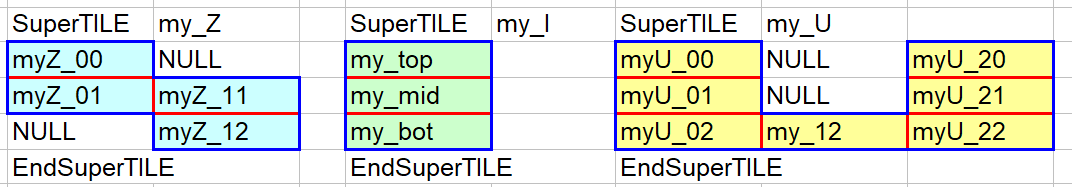
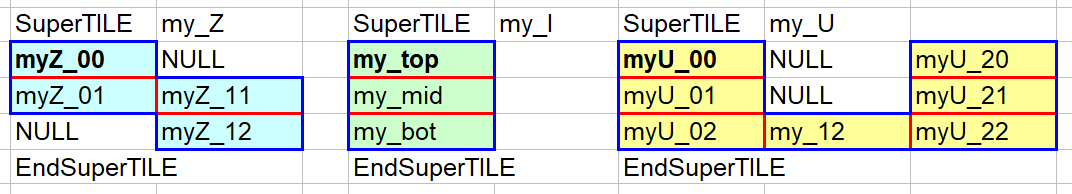
anchor tile description in Supertiles and bitstream remapping subsection

diff --git a/docs/source/fabric_definition.rst b/docs/source/fabric_definition.rst
@@ -542,7 +542,90 @@ FABulous defines the following coding rules for BELs:
 Bitstream remapping
 ~~~~~~~~~~~~~~~~~~~
 
+FABulous will take care about implementing the configuration logic and bitstream encoding and the mapping of this into configuration bitstreams. This can be done automatically.
+However, users can influence the mapping of configuration bits into the bitstream. We use this in TODO for optimizing the bitstream layout. Moreover, for our first chip, we used remapping to create a human readable bitstream which is more convininet to be modified in a hex editor, as dsscribed later in this subsetion).
 
+In the code example for a LUT, it was shown that the configuration bits are exported into the LUT interface:
+
+.. code-block:: VHDL
+   :emphasize-lines: 5
+
+   entity LUT4 is
+    Generic ( NoConfigBits : integer := 18 );	-- has to be adjusted manually 
+    Port (      -- IMPORTANT: this has to be in a dedicated line
+    ...
+    ConfigBits : in 	 STD_LOGIC_VECTOR( NoConfigBits -1 downto 0 )  -- These are the configuration bits
+
+Exporting configuration bits is a requirement for any primitive or switch matrix that uses configuration bits. The tile configuration bitstream is formed by concatenating first the primitive configuration bits (if primitives are available and use configuration bits) and then the switch matrix configuration bits (again, only if the switch matrix uses configuration bits) into one long tile configuration word.
+This is done in the order that the primitives are declared by ``BEL`` entries in the tile definition. Configuration bitstream vectors are defined in *downto* direction and the first BEL primitive configuration bits will be placed at the LSB side of the tile bitstream and the configuration switch matrix at the MSB side.
+
+In the case of using the **shift-register configuration mode**, this would form the tile configuration chain. FABulous is only supporting one long bit-serial configuration chain. While configuration speed could bossibly be boosted by using multiple parralel (and correspondingly shorter) chains, we have not added further optimizations, because shift register configuration is inferior to frame-based configuration mode.
+
+For **frame-based configuration mode**, FABulous will pack those configuration bits into frames. By default, FABulous will start with frame 0 and pack the first ``FrameBitsPerRow`` bits from the tile configuration bitstream starting with the MSBs of the tile bitstream frame-by-frame until all configuration bits are packed. This may leave some of the ``FrameBitsPerRow`` x ``MaxFramesPerCol`` possible  configuration bits unused.
+
+FABulous is recording the bitstream mapping file (in CSV format) that follows the naming convention  <tile_descriptor>_ConfigMem.init.csv (e.g., LUT4AB_ConfigMem.init.csv). The file has ``MaxFramesPerCol`` lines (one per configuration frame, which includes empty frames). A line has the format:
+
+  <frame_name>, <frame_index>, <bits_used>, <used_bits_mask>, <ConfigBits_ranges>
+
+Where the fields mean:
+
+* <frame_name> is a symbolic name for a frame which is not further used internally by FABulous.
+* <frame_index> is indexed 0 to ``MaxFramesPerCol`` -1.
+* <bits_used> denotes the number of bits that are used in this frame and must be in the range 0 to ``FrameBitsPerRow``.
+* <used_bits_mask> denotes which bits in a frame will be used. The bitmask is defined MSBs downto LSBs and a ``1`` denotes a used configuration bit and a ``0`` denotes a gap bit that will not be used. Note that FABulous will not generate configuration latch for thos gap bits). Again, in frame-based reconfiguration, not all possible ``FrameBitsPerRow`` x ``MaxFramesPerCol`` bits will be usually be used and the bitmask specifies the used and unused bits. The number of ``1`` entries per frame is redundant to <bits_used>. FABulous will count the ``1`` entries and use that value while <bits_used> is used for checking only.
+* <ConfigBits_ranges> denotes a comma-separated list of configuration bits (given by their index) from the tile bitstream. The field can be individual bits or ranges of tile bitstream bits in the form <left_index>:<right_index>. The number of specified bits has to match the number of used configuraton bits as specified by the mask and the mapping is performed in the order the configuratoin bits are listed, as illustrated in the following figure:
+
+  .. figure:: figs/bitstream_mask_mapping.*
+    :alt: bitstream_mask_mapping
+    :width: 60% 
+    :align: center
+
+The following exaple is the FABulous-generated mapping file of the CLB implemented for our first FABulous TSMC chip.
+
+.. code-block:: python
+
+   #frame_name, frame_index, bits_used, used_bits_mask,                          ConfigBits_ranges
+   frame0,      0,           32,        1111_1111_1111_1111_1111_1111_1111_1111, 537:506
+   frame1,      1,           32,        1111_1111_1111_1111_1111_1111_1111_1111, 505:474
+   frame2,      2,           32,        1111_1111_1111_1111_1111_1111_1111_1111, 473:442
+   frame3,      3,           32,        1111_1111_1111_1111_1111_1111_1111_1111, 441:410
+   frame4,      4,           32,        1111_1111_1111_1111_1111_1111_1111_1111, 409:378
+   frame5,      5,           32,        1111_1111_1111_1111_1111_1111_1111_1111, 377:346
+   frame6,      6,           32,        1111_1111_1111_1111_1111_1111_1111_1111, 345:314
+   frame7,      7,           32,        1111_1111_1111_1111_1111_1111_1111_1111, 313:282
+   frame8,      8,           32,        1111_1111_1111_1111_1111_1111_1111_1111, 281:250
+   frame9,      9,           32,        1111_1111_1111_1111_1111_1111_1111_1111, 249:218
+   frame10,     10,          32,        1111_1111_1111_1111_1111_1111_1111_1111, 217:186
+   frame11,     11,          32,        1111_1111_1111_1111_1111_1111_1111_1111, 185:154
+   frame12,     12,          32,        1111_1111_1111_1111_1111_1111_1111_1111, 153:122
+   frame13,     13,          32,        1111_1111_1111_1111_1111_1111_1111_1111, 121:90
+   frame14,     14,          32,        1111_1111_1111_1111_1111_1111_1111_1111, 89:58
+   frame15,     15,          32,        1111_1111_1111_1111_1111_1111_1111_1111, 57:26
+   frame16,     16,          26,        1111_1111_1111_1111_1111_1111_1100_0000, 25:0
+   frame17,     17,          0,         0000_0000_0000_0000_0000_0000_0000_0000,
+   frame18,     18,          0,         0000_0000_0000_0000_0000_0000_0000_0000,
+   frame19,     19,          0,         0000_0000_0000_0000_0000_0000_0000_0000,
+
+Users are not required to modify the <tile_descriptor>_ConfigMem.init.csv file. However, if FABulous finds a file called <tile_descriptor>_ConfigMem.csv (without the init), it will use the bitstream mapping provided in that. The followiwng example shows the basic idea that was used to provide a human readable bitstream encoding. It is not intended to understand the example in detail. Tha basic idea is to align configuration LUT function tables, settings and the switch matrix multiplexer encoding to be nibble aligned such that they are easy to find in a hex editor. For instance, in the example below, the first 8 frames are mostly encoding the LUTs where the 16 MSBs are the LUT tables and the next two nibles are encoding a flop and carry-chain mode:
+
+.. code-block:: python
+
+   #frame_name, frame_index, bits_used_in_frame, used_bits_mask, ConfigBits_ranges
+   frame0,0,32,1111_1111_1111_1111_0001_0001_0001_0001,15:00,16,17,144,145
+   frame1,1,32,1111_1111_1111_1111_0001_0001_0000_0000,33:18,34,35
+   frame2,2,32,1111_1111_1111_1111_0001_0001_0011_0011,51:36,52,53,515:514,517:516,#,J_l_CD_BEG0,J_l_CD_BEG1
+   frame3,3,32,1111_1111_1111_1111_0001_0001_0011_0011,69:54,70,71,519:518,521:520,#,J_l_CD_BEG2,J_l_CD_BEG3
+   frame4,4,32,1111_1111_1111_1111_0001_0001_0011_0011,87:72,88,89,523:522,525:524,#,J_l_EF_BEG0,J_l_EF_BEG1
+   frame5,5,32,1111_1111_1111_1111_0001_0001_0011_0011,105:90,106,107,527:526,529:528,#,J_l_EF_BEG2,J_l_EF_BEG3
+   frame6,6,32,1111_1111_1111_1111_0001_0001_0011_0011,123:108,124,125,531:530,533:532,#,J_l_GH_BEG0,J_l_GH_BEG1
+   frame7,7,32,1111_1111_1111_1111_0001_0001_0011_0011,141:126,142,143,535:534,537:536,#,J_l_GH_BEG2,J_l_GH_BEG3
+   #,E6BEG0   ,E6BEG1   ,W6BEG0   ,W6BEG1   ,JN2BEG0  ,JN2BEG1  ,JN2BEG2  ,JN2BEG3
+   frame8,8,32,1111_1111_1111_1111_1111_1111_1111_1111,173:170,177:174,205:202,209:206,381:378,385:382,389:386,393:390
+   #,JN2BEG4  ,JN2BEG5  ,JN2BEG6  ,JN2BEG7  ,JE2BEG0  ,JE2BEG1  ,JE2BEG2  ,JE2BEG3   
+   frame9,9,32,1111_1111_1111_1111_1111_1111_1111_1111,397:394,401:398,405:402,409:406,413:410,417:414,421:418,425:422
+   ...
+
+The more important use case of bitsteam remapping is to optimize the physial implementation of the configuration tiles. FABulous includes a correspondingg optimizer that generates the bitsteam remapping files automatically. The process is described in detail in TODO FPGA_2022_paper.
 
 .. _supertiles:
 
@@ -588,9 +671,11 @@ Supertiles are modeled from elementary tiles in a spreadsheet/csv file similar t
 
 Supertiles will be instantiated in the fabric (VHDL or Verilog) file, and supertiles themselves instantiate basic tiles (e.g., the ones shown in the figure). Therefore, supertiles define wires and switch matrices through their instantiated basic tiles. 
 
-If a basic tile has a border to the outside world (i.e. the surrounding fabric), the interface to that border is exported to the supertile interface (i.e. the Entity in VHDL). Those borders are marked blue in the figure above. Internal edges are connected inside the supertile wrapper according to the entire tile specification.
+Supertiles have an **anchor tile**, which is used to specify its position in the fabric. The anchor tile is determined by a row-by-row scan over the basic tiles and it will be the first non-NULL tile found. All other basic tiles will be placed relatively to the anchor tile. The anchor tiles in the figure aabove had been marked using a bolt font. So far, anchor tiles are only used internally in FABulous but it is planned to allow placing supertiles through their anchor tiles in the fabri layour, rather than through their basic tiles.
 
-A basic tile instantiated in a supertile may not implement interfaces to all NORTH, EAST, SOUTH, WEST directions. For instance, a supertile may include basics U-turn terminate tiles if the supertile is supposed to be placed at the border of the fabric.
+If a basic tile has a **border to the outside world** (i.e. the surrounding fabric), the interface to that border is exported to the supertile interface (i.e. the Entity in VHDL). Those borders are marked blue in the figure above. Internal edges are connected inside the supertile wrapper according to the entire tile specification.
+
+A basic tile instantiated in a supertile may not implement interfaces to all NORTH, EAST, SOUTH, WEST directions. For instance, a supertile may include basic terminate tiles if the supertile is supposed to be placed at the border of the fabric.
 
 Tile ports that are declared ``EXTERNAL`` in the basic tiles will be exported all the way to the top-level the same way this is performed for :ref:`tiles`
 
